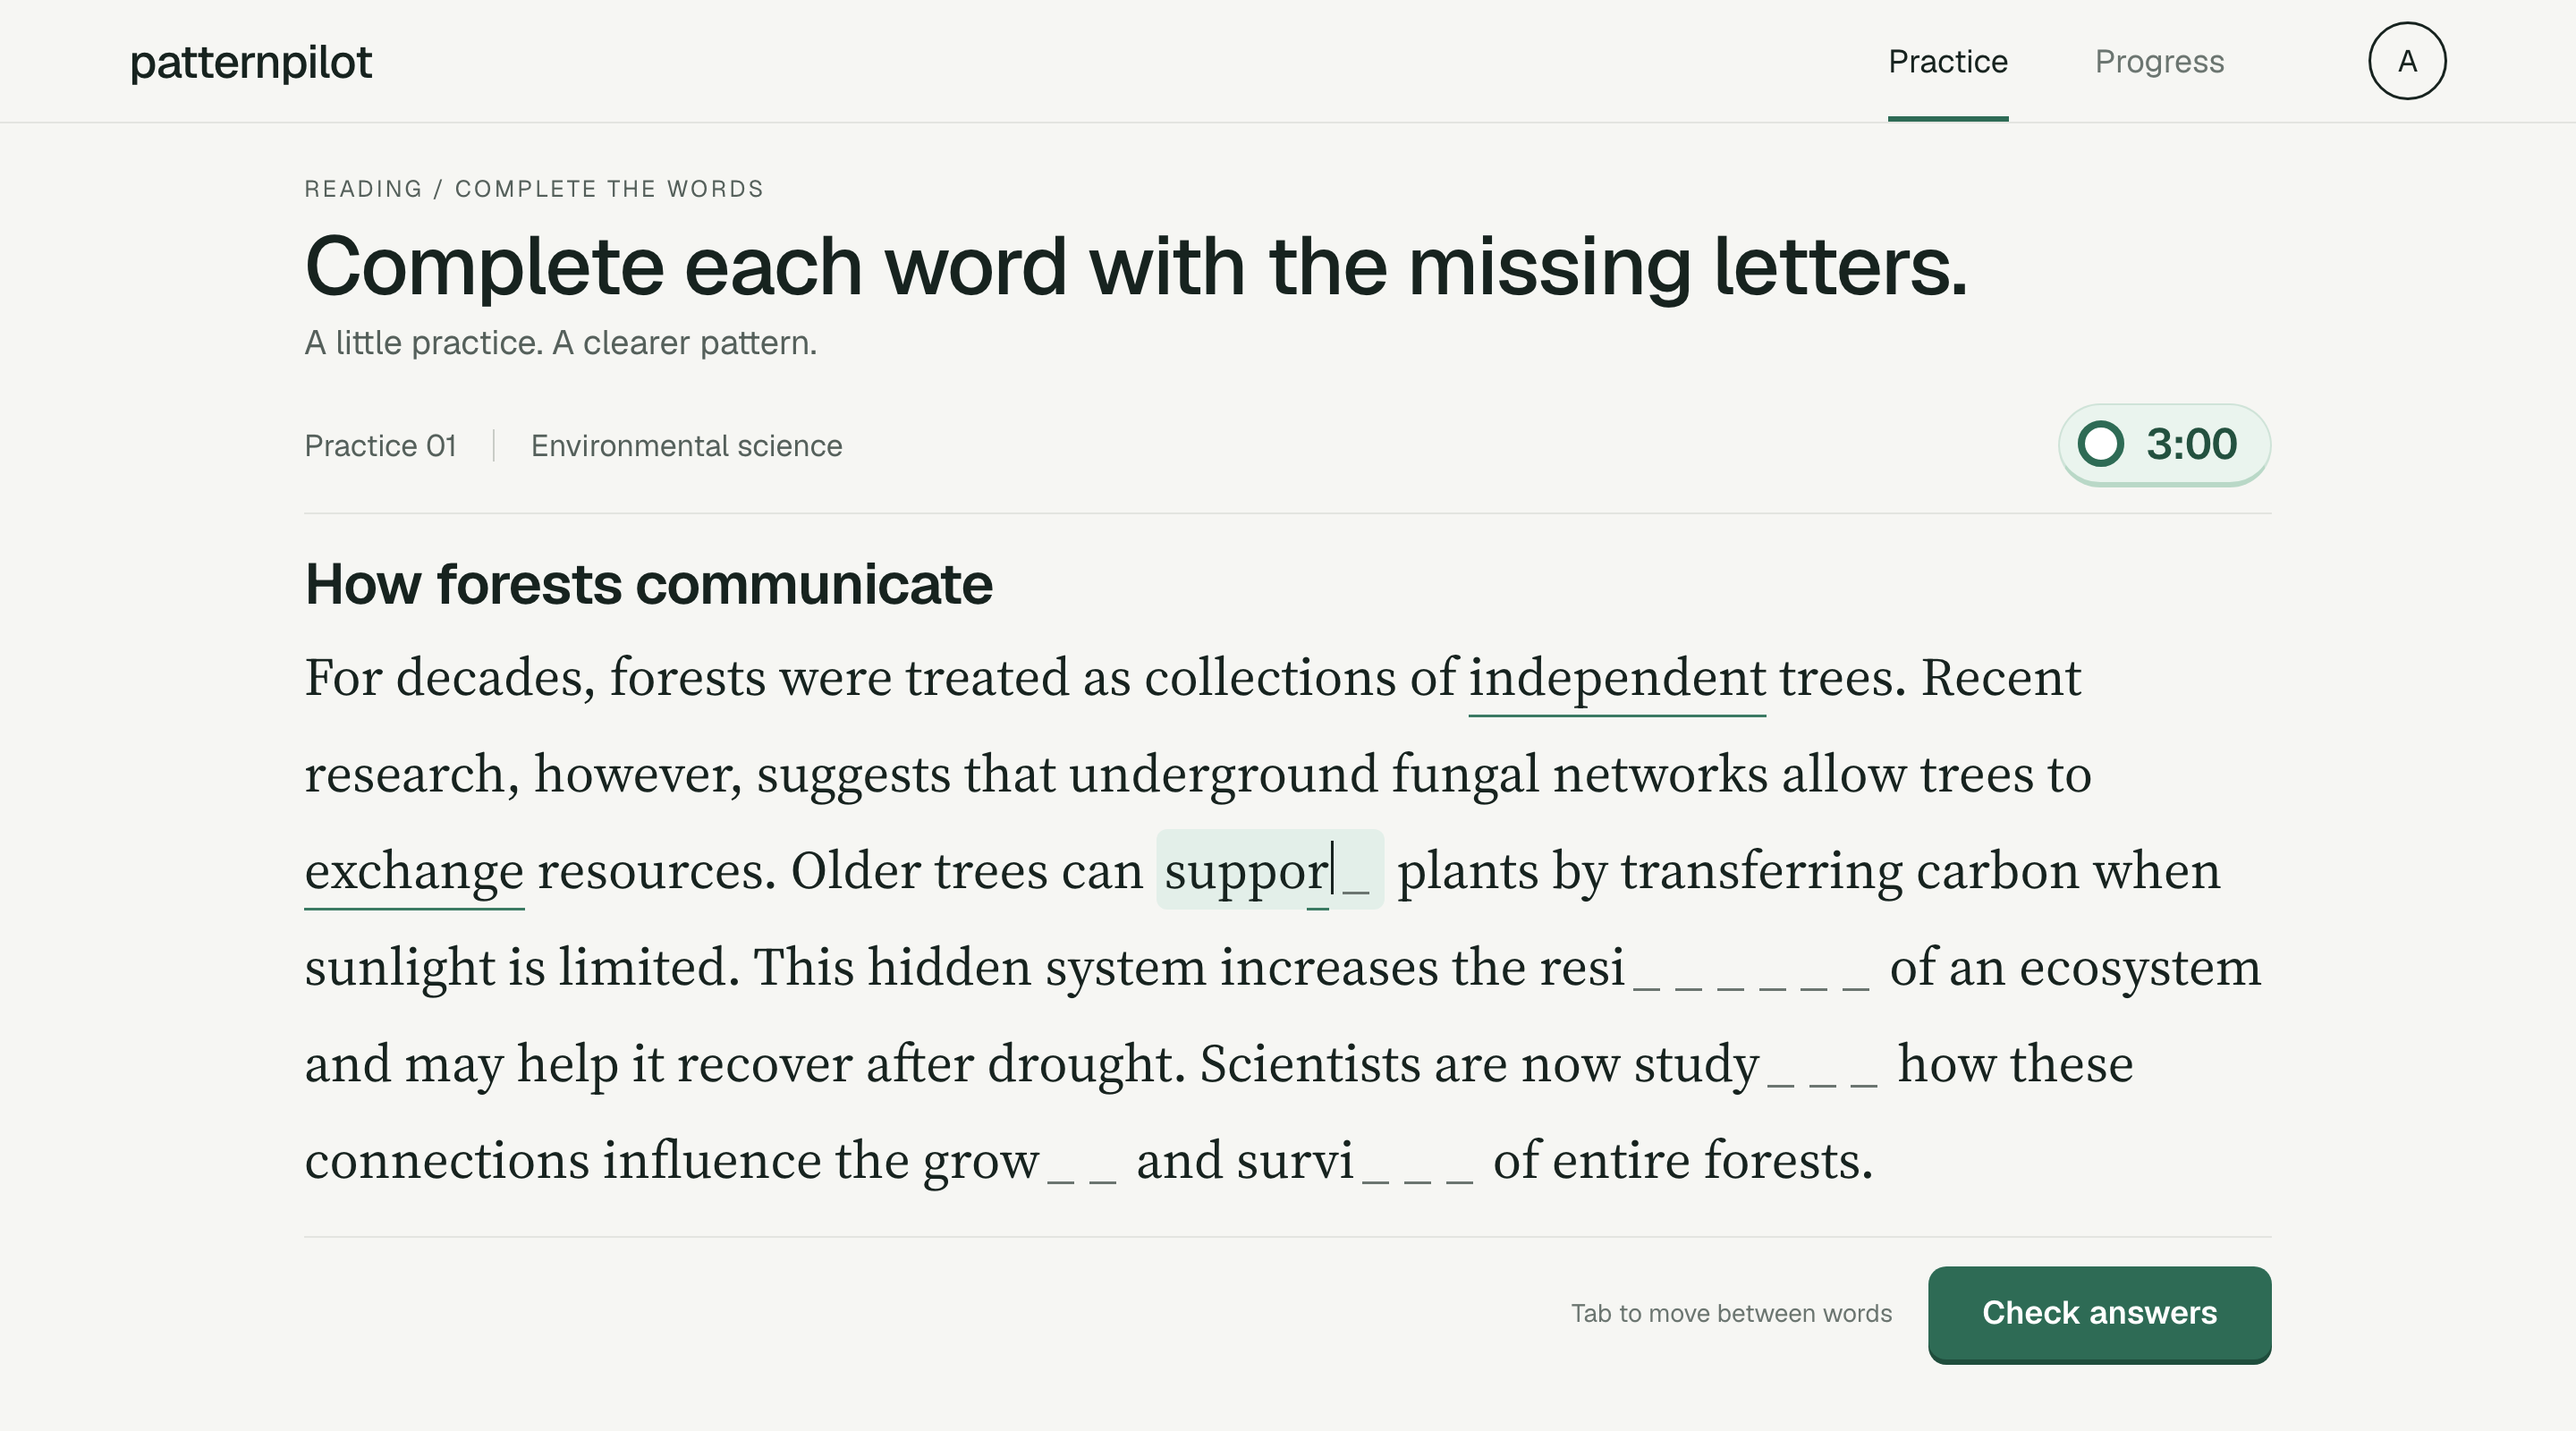
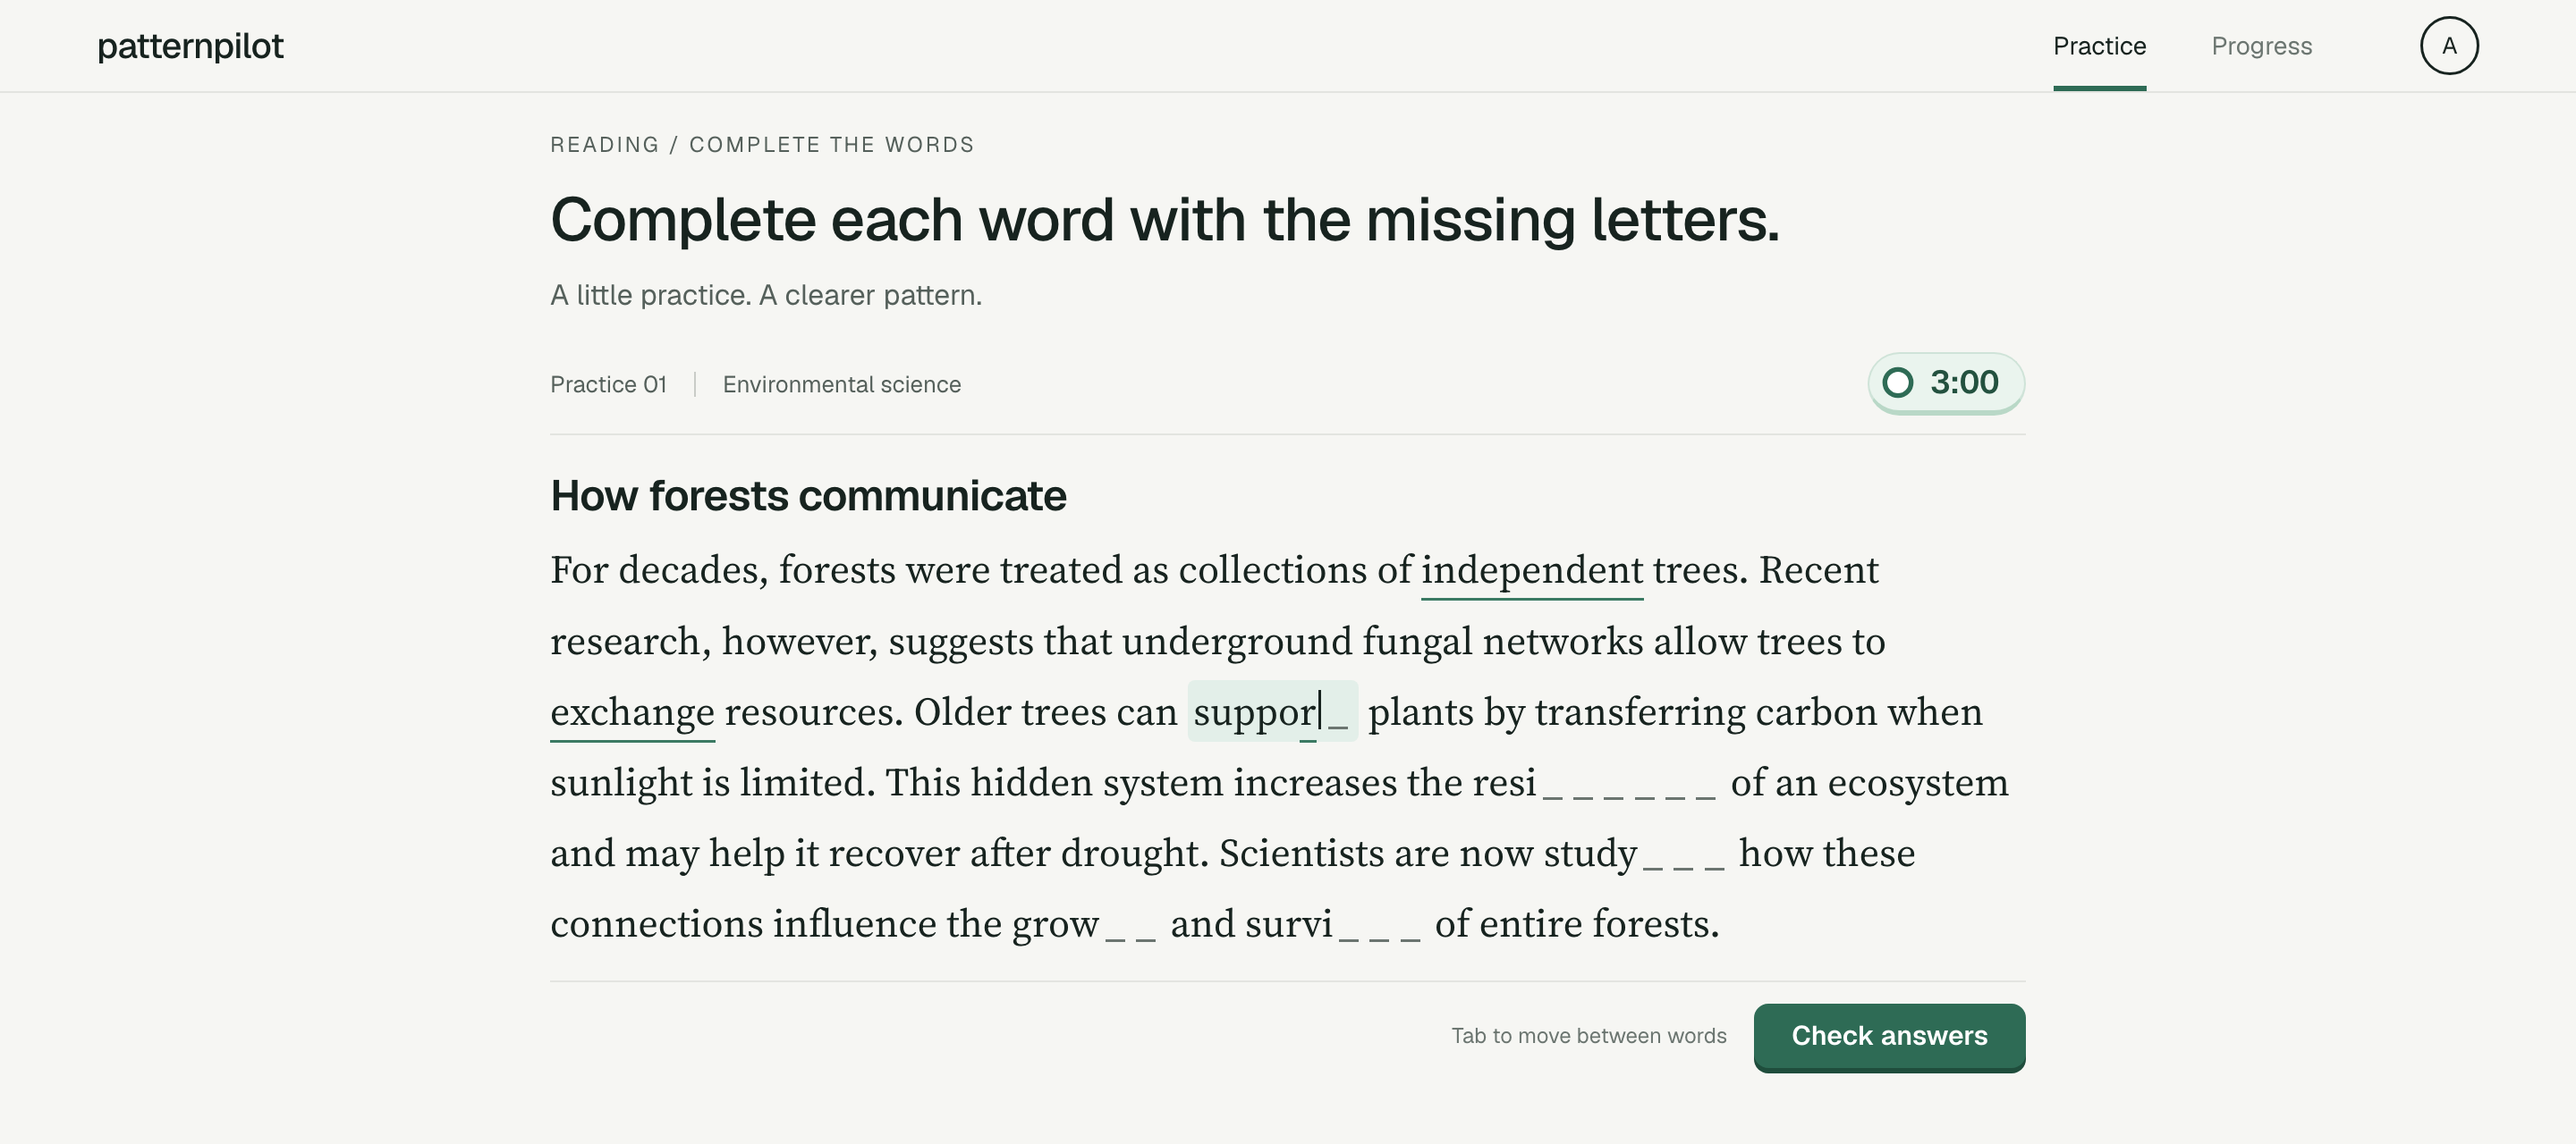
docs: scale practice and results screens to 75% type scale

diff --git a/docs/product.md b/docs/product.md
@@ -140,8 +140,9 @@ Correct answers get only a **Why** line.
 - **Fonts:** Geist for the interface. Source Serif 4 for anything the learner reads (passages, drill sentences, answer words).
 - **Radius:** buttons 10px · tags 4px · highlights 6px · pattern card 22px · timer fully rounded.
 - **Depth:** a 3px darker bottom border (4px on the pattern card). The pattern card may add one soft green shadow.
-- **Spacing:** 8px grid. Content column 1100px wide on desktop (about 75 characters per line; don't go wider). Keep vertical gaps between blocks at 16–28px.
-- **Fit:** on a 1440×800 laptop window at 100% zoom, the whole practice screen (passage and **Check answers**) must fit without scrolling. The reference design ends at about 760px.
+- **Type scale (desktop):** wordmark 20 · nav tabs 14 · page heading 34 (line-height 1.3) · passage title 24 · **passage 22 serif, line-height 1.8** · subheading 16 · meta 13 · timer 18 · buttons 15 · small hints 12. Nothing below 12px.
+- **Spacing:** 8px grid. Content column **825px** wide on desktop (about 75 characters per line). Vertical gaps between blocks 12–24px; heading block (label → heading → subheading) has a little more air (12px / 10px).
+- **Fit:** on a 1440×800 laptop window at 100% zoom, the whole practice screen (passage and **Check answers**) must fit without scrolling. The reference design ends at about 600px.
 
 ### Components
 - **Top nav:** lowercase `patternpilot` wordmark · *Practice* / *Progress* tabs (active tab has a 3px green underline) · account avatar.
